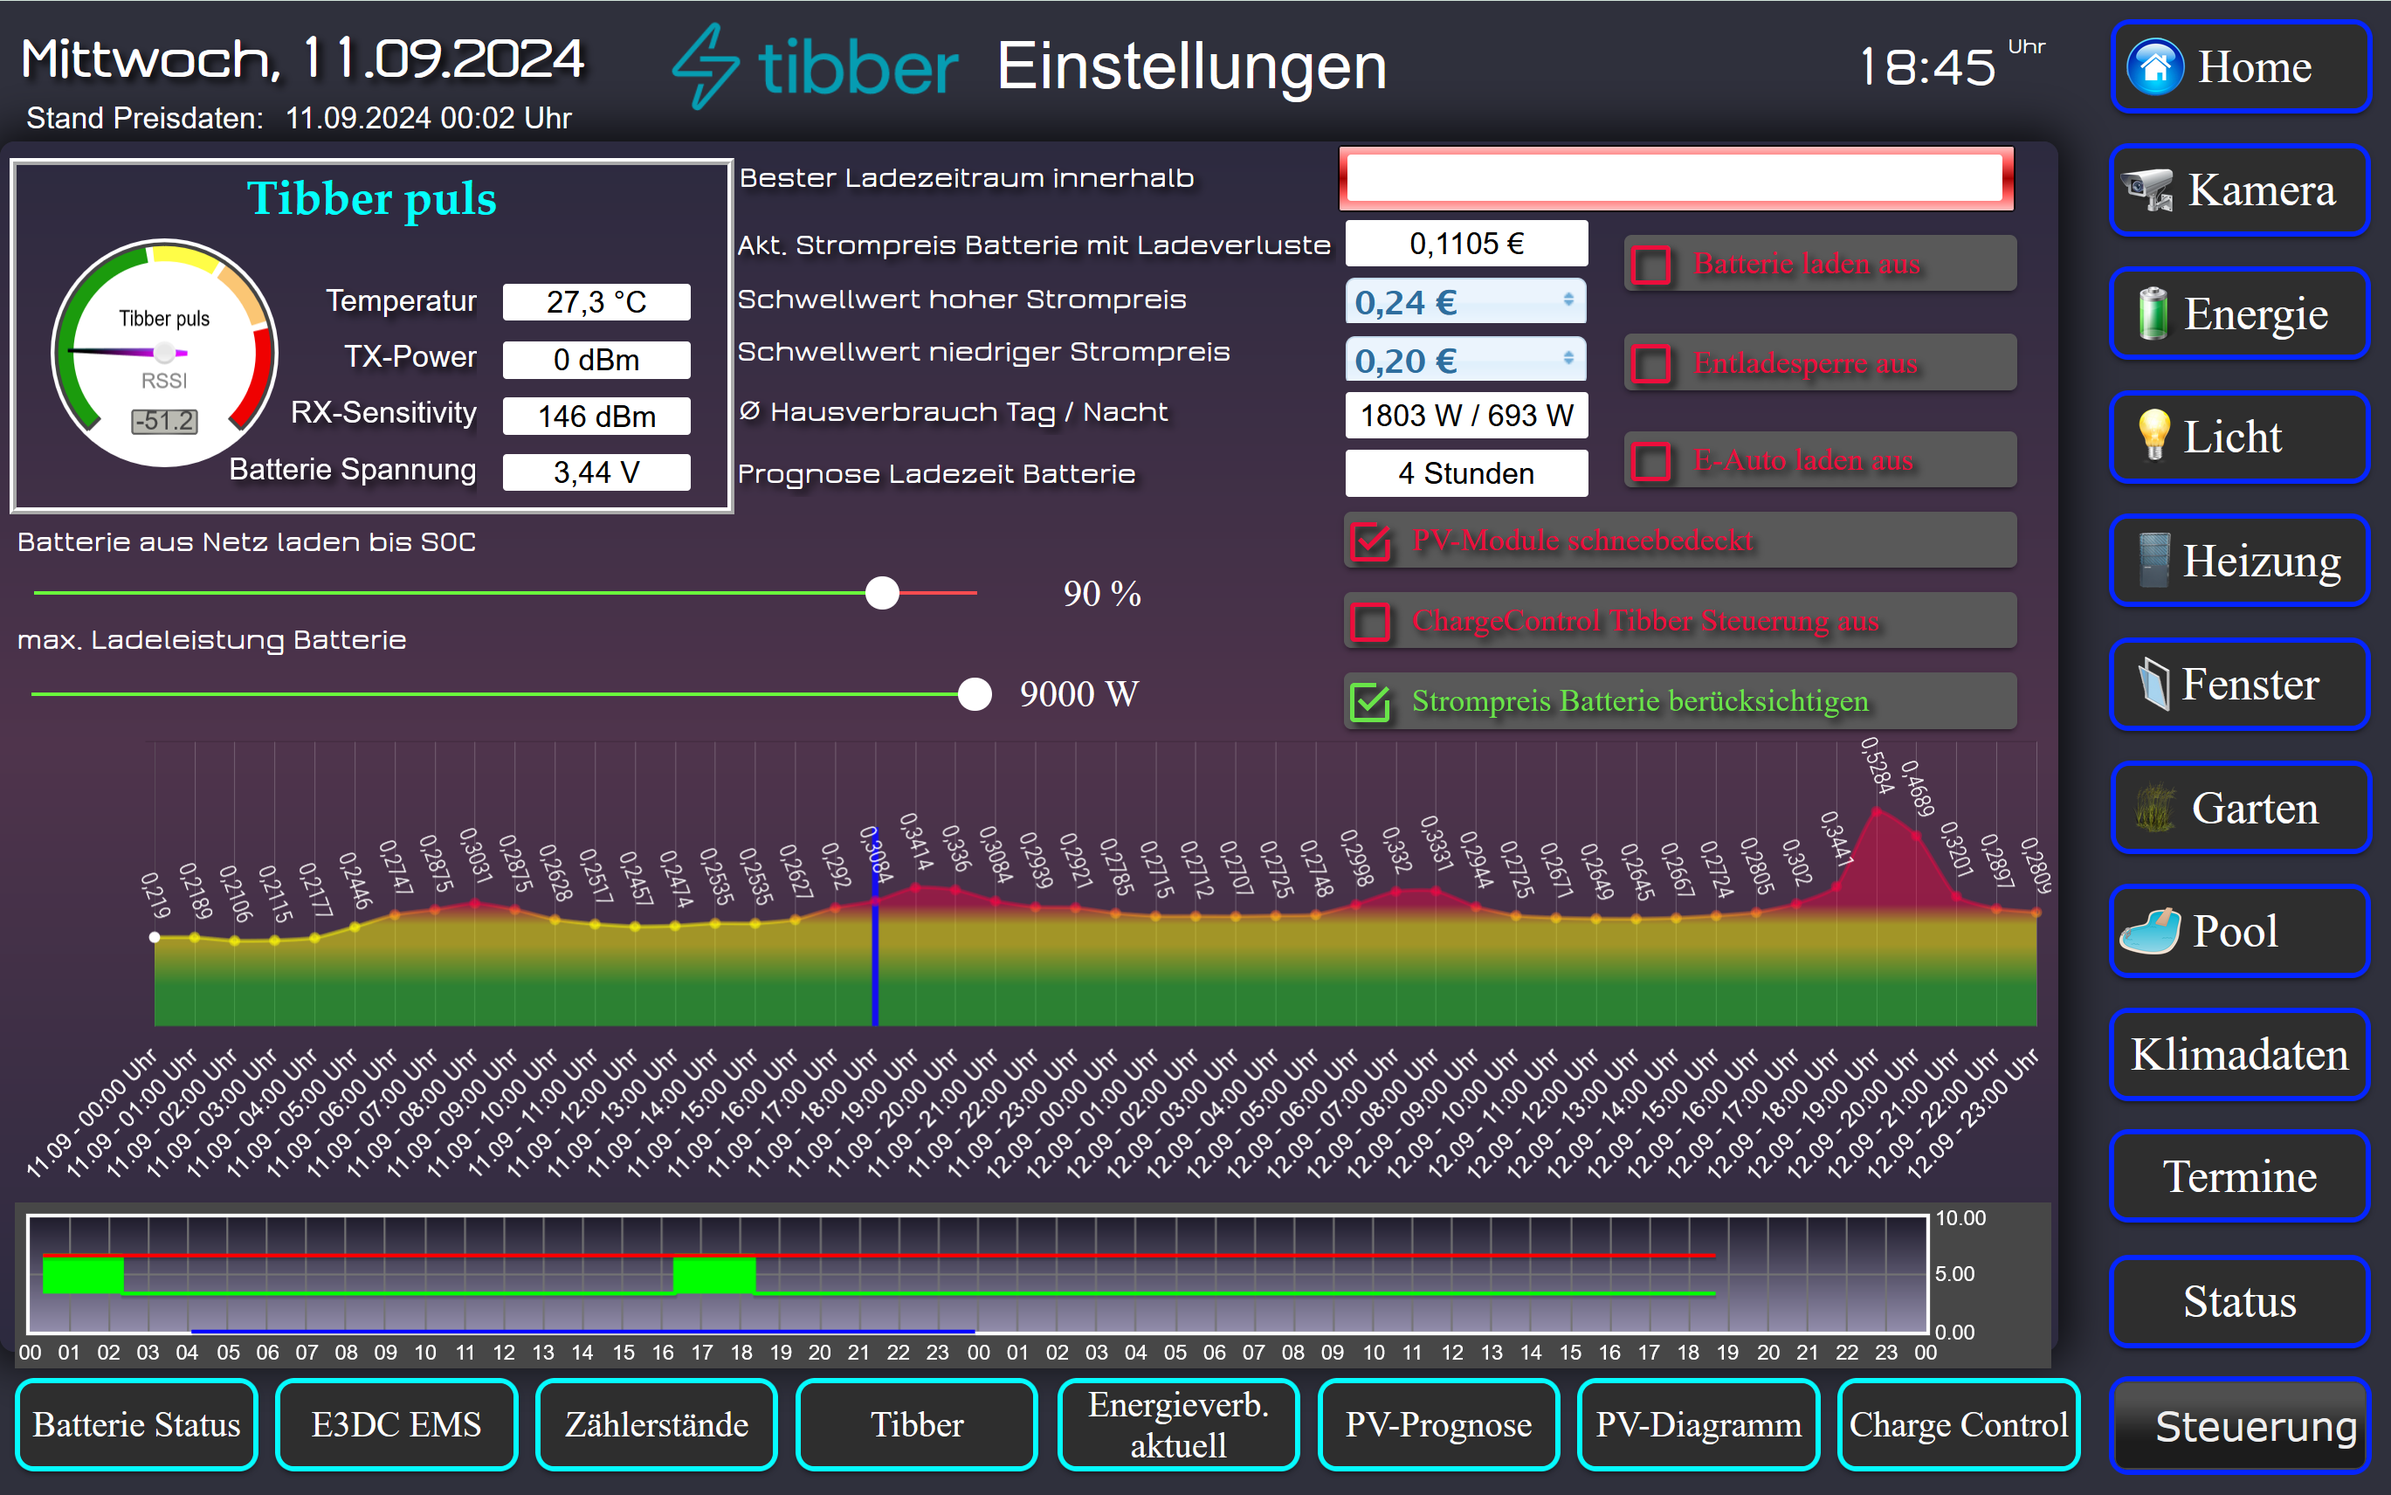
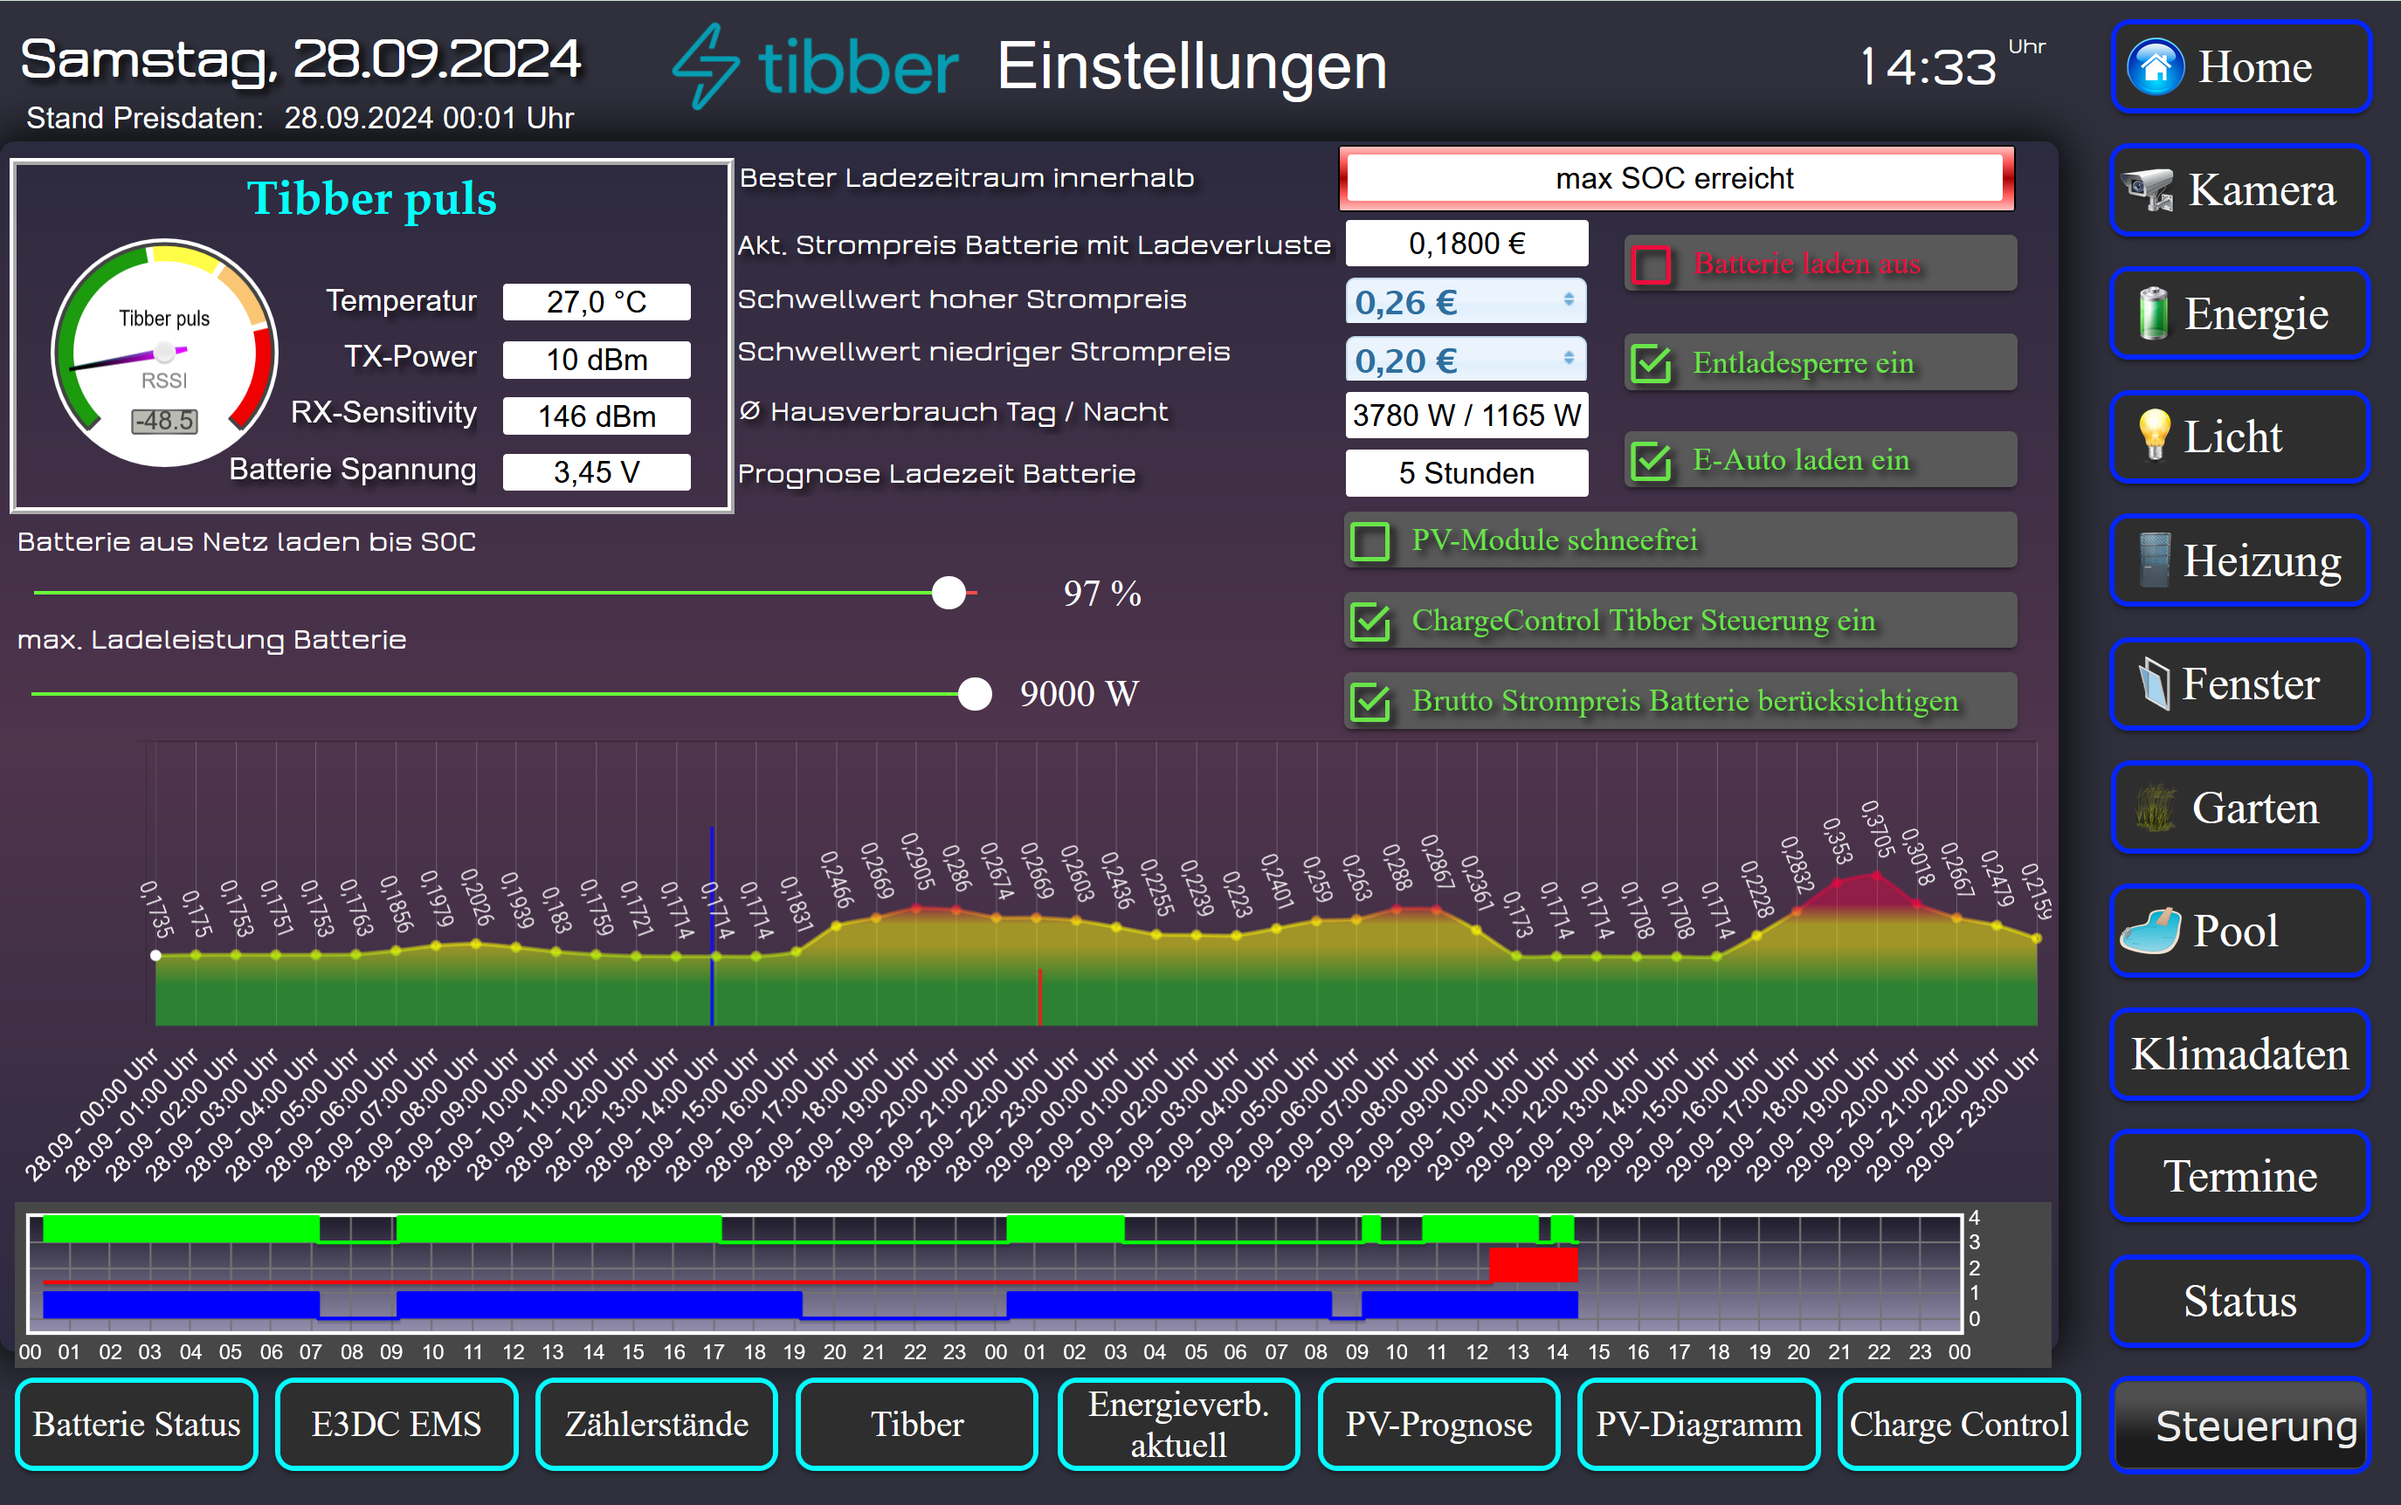
Update 28.09.2024

diff --git a/Tibber_Ver_1.1.5.js b/Tibber_Ver_1.1.5.js
@@ -14,7 +14,7 @@ const DebugAusgabeDetail = true;
 //******************************************************************************************************
 //**************************************** Deklaration Variablen ***************************************
 //******************************************************************************************************
-const scriptVersion = 'Version 1.1.4'
+const scriptVersion = 'Version 1.1.5'
 log(`-==== Tibber Skript ${scriptVersion} ====-`);
 
 // IDs Script Charge_Control
@@ -54,7 +54,7 @@ const sID_niedrigerSchwellwertStrompreis = `${instanz}.${PfadEbene1}.${PfadEbene
 
 const sID_Schneebedeckt = `${instanz}.${PfadEbene1}.${PfadEbene2[3]}.pvSchneebedeckt`;
 const sID_Systemwirkungsgrad = `${instanz}.${PfadEbene1}.${PfadEbene2[3]}.Systemwirkungsgrad`
-const sID_BatteriepreisAktiv = `${instanz}.${PfadEbene1}.${PfadEbene2[3]}.BatteriepreisAktiv`
+const sID_BatteriepreisAktiv = `${instanz}.${PfadEbene1}.${PfadEbene2[3]}.BatteriepreisAktiv`                   // Auswahl in VIS ob aktueller Strompreis Batterie brücksichtigt werden soll
 const sID_Stromgestehungskosten = `${instanz}.${PfadEbene1}.${PfadEbene2[3]}.stromgestehungskosten`
 const sID_TibberLinkID = `${instanz}.${PfadEbene1}.${PfadEbene2[3]}.tibberLinkId`
 
@@ -66,10 +66,10 @@ const arrayID_TibberPrices =[sID_PricesTodayJSON,sID_PricesTomorrowJSON];
 
 let maxBatterieSoC, aktuelleBatterieSoC_Pro, maxLadeleistungUser_W, stromgestehungskosten;
 let batterieKapazitaet_kWh, billigsterEinzelpreisBlock = 0, billigsterBlockPreis = 0, minStrompreis_48h = null, LogProgrammablauf = "";
-let batterieSOC_alt = null, aktuellerPreisTibber = null, strompreisBatterie,bruttoPreisBatterie,systemwirkungsgrad, batteriepreisAktiv ;
+let batterieSOC_alt = null, aktuellerPreisTibber = null, strompreisBatterie,bruttoPreisBatterie,systemwirkungsgrad ;
 let hoherSchwellwert, niedrigerSchwellwert;
 
-let bLock = false, bEntladenSperren = false, schneeBedeckt = false, notstromAktiv = false;                                                                 
+let bLock = false, bEntladenSperren = false, schneeBedeckt = false, notstromAktiv = false, batteriepreisAktiv = false;                                                                 
 
 let timerIds = [], timerTarget = [], timerObjektID = [],timerState =[], batterieLadedaten = [],datenHeute =[], datenMorgen = [], datenTibberLink48h = [];
 
@@ -181,7 +181,6 @@ async function tibberSteuerungHauskraftwerk() {
         const datejetzt = new Date();
         const [reichweite_h, minuten] = (await getStateAsync(sID_Autonomiezeit)).val.split(' / ')[1].split(' ')[0].split(':').map(Number);
         const endZeitBatterie = new Date(datejetzt.getTime() + reichweite_h * 3600000 + minuten * 60000);
-        log(`endZeitBatterie = ${endZeitBatterie}`,'warn')
         const pvLeistungAusreichend = await pruefePVLeistung(reichweite_h);
         const preisPhasen = await findePreisPhasen(datenTibberLink48h, hoherSchwellwert, niedrigerSchwellwert);
         let spitzenSchwellwert = 0, merkerNiedrigpreisphase = false
@@ -194,6 +193,9 @@ async function tibberSteuerungHauskraftwerk() {
         // Prüfen ob Freigabe zum laden vom E-Auto gesetzt werden kann
         await handleEAutoLaden(naechsteNiedrigphase,datejetzt);
         
+        // Prüfe ob Entladesperre der Batterie gesetzt werden muss
+        await pruefeBatterieEntladesperre(pvLeistungAusreichend,endZeitBatterie);
+
         // ist Prognose PV-Leistung ausreichend um Batterie zu laden oder maxBatterieSoC erreicht
         if (!pvLeistungAusreichend && aktuelleBatterieSoC_Pro < maxBatterieSoC) {
             
@@ -289,22 +291,24 @@ async function tibberSteuerungHauskraftwerk() {
             }
             
         } else {
-            
+            let message = '';
             LogProgrammablauf += '14,';
-            if (aktuelleBatterieSoC_Pro > maxBatterieSoC) {
-                await setStateAsync(sID_besteLadezeit, `max SOC erreicht`);
+            if (pvLeistungAusreichend) {
+                message = 'Laden mit PV-Leistung';
+                if (aktuelleBatterieSoC_Pro >= maxBatterieSoC) {
+                    message += ' und max SOC erreicht';
+                }
+            } else if (aktuelleBatterieSoC_Pro >= maxBatterieSoC) {
+                message = 'max SOC erreicht';
             } else {
-                await setStateAsync(sID_besteLadezeit, `Laden mit PV-Leistung`);
+                message = 'Laden mit PV-Leistung';
             }
-            // Entladesperre der Batterie ausschalten
-            await setStateAsync(sID_BatterieEntladesperre, false);
+            await setStateAsync(sID_besteLadezeit, message);
+            
         }
-
         await DebugLog(preisPhasen,naechsteNiedrigphase,naechsteHochphase,spitzenSchwellwert);
         LogProgrammablauf = '';
-
     } catch (error) {
-        // Fehlerbehandlung zentralisieren
         log(`Fehler in Funktion tibberSteuerungHauskraftwerk: ${error.message}`, 'error');
     }
 }
@@ -331,6 +335,33 @@ async function handleEAutoLaden(naechsteNiedrigphase,datejetzt) {
         }  
     }
 }
+
+// Funktionen Entladesperre prüfen
+async function pruefeBatterieEntladesperre(pvLeistungAusreichend,endZeitBatterie) {
+     LogProgrammablauf += '8,';
+    let pv_Leistung = false
+    let preisBatterie;
+    // Wenn Prognose PV-Leistung ausreicht um Batterie zu laden und die Batteriereichweite bis zum Sonnenaufgang reicht, dann auch bei niedrigem Tibber Preis entladen. 
+    if (pvLeistungAusreichend) {
+        // Holen der Sonnenaufgangs- und Sonnenuntergangszeiten
+        const sunriseEnd_ms = getAstroDate("sunriseEnd").getTime();  // Ende des Sonnenaufgangs
+        const sunset_ms = getAstroDate("sunset").getTime();          // Sonnenuntergang    
+        const endZeit_ms = new Date(endZeitBatterie).getTime();
+        // Prüfe, ob die Batteriezeit innerhalb der Sonnenzeiten liegt
+        if (endZeit_ms >= sunriseEnd_ms && endZeit_ms <= sunset_ms) {
+            pv_Leistung = true; // Entladung ist möglich, weil die Batteriezeit in der Sonnenzeit liegt
+        } 
+    }
+    // Prüfen ob der Bruttopreis oder der Nettopreis verwendet werden soll (Auswahl in VIS)
+    if(batteriepreisAktiv){preisBatterie = bruttoPreisBatterie }else{preisBatterie = strompreisBatterie}
+    if(preisBatterie > aktuellerPreisTibber && !pv_Leistung){
+        await setStateAsync(sID_BatterieEntladesperre, true)    
+    }else{
+        await setStateAsync(sID_BatterieEntladesperre, false)
+    }    
+}
+
+
 
 // Funktion sucht entweder die aktuelle Phase oder die nächste Phase mit Start- und Endzeit.
 function findeAktuelleOderNaechstePhase(arrayPhases) {

diff --git a/View Import Dateien VIS/iobroker_VIS_View_Tibber.js b/View Import Dateien VIS/iobroker_VIS_View_Tibber.js
@@ -2748,7 +2748,7 @@
                 "lc-border-color": "",
                 "lc-border-radius": 10,
                 "lc-zindex": 0,
-                "src": "https://192.168.1.60:8082/flot/index.html?l%5B0%5D%5Bid%5D=0_userdata.0.TibberSkript.OutputSignal.BatterieLaden&l%5B0%5D%5Boffset%5D=0&l%5B0%5D%5Baggregate%5D=minmax&l%5B0%5D%5Bcolor%5D=%2300FF00&l%5B0%5D%5Bmin%5D=-1&l%5B0%5D%5Bmax%5D=2&l%5B0%5D%5Bthickness%5D=2&l%5B0%5D%5Bshadowsize%5D=2&l%5B0%5D%5Bname%5D=Ladefreigabe&l%5B0%5D%5BchartType%5D=steps&l%5B0%5D%5Byaxe%5D=off&l%5B0%5D%5Bxaxe%5D=off&l%5B0%5D%5BignoreNull%5D=false&l%5B0%5D%5BafterComma%5D=0&l%5B0%5D%5Bdashes%5D=false&l%5B0%5D%5BdashLength%5D=10&l%5B0%5D%5BspaceLength%5D=10&l%5B0%5D%5Bxticks%5D=50&l%5B0%5D%5Byticks%5D=3&l%5B0%5D%5Bmultiplicator%5D=1&l%5B0%5D%5Bxmove%5D=0&l%5B0%5D%5Bfill%5D=1&l%5B1%5D%5Bid%5D=0_userdata.0.TibberSkript.OutputSignal.BatterieEntladesperre&l%5B1%5D%5Boffset%5D=0&l%5B1%5D%5Baggregate%5D=minmax&l%5B1%5D%5Bcolor%5D=%23ff0000&l%5B1%5D%5Bmin%5D=-2&l%5B1%5D%5Bmax%5D=1&l%5B1%5D%5Bthickness%5D=2&l%5B1%5D%5Bshadowsize%5D=2&l%5B1%5D%5Bname%5D=Entladesperre&l%5B1%5D%5Bxmove%5D=0&l%5B1%5D%5BchartType%5D=steps&l%5B1%5D%5Bfill%5D=1&l%5B1%5D%5Byaxe%5D=off&l%5B1%5D%5Bxaxe%5D=off&l%5B1%5D%5BignoreNull%5D=false&l%5B1%5D%5BafterComma%5D=0&l%5B1%5D%5Bdashes%5D=false&l%5B1%5D%5BdashLength%5D=10&l%5B1%5D%5BspaceLength%5D=10&l%5B1%5D%5Bmultiplicator%5D=1&l%5B1%5D%5Bxticks%5D=50&l%5B1%5D%5Byticks%5D=3&l%5B1%5D%5Bpoints%5D=false&l%5B2%5D%5Bid%5D=0_userdata.0.TibberSkript.OutputSignal.eAutoLaden&l%5B2%5D%5Boffset%5D=0&l%5B2%5D%5Baggregate%5D=onchange&l%5B2%5D%5Bcolor%5D=%230000FF&l%5B2%5D%5Bmin%5D=0&l%5B2%5D%5Bmax%5D=10&l%5B2%5D%5Bthickness%5D=2&l%5B2%5D%5Bshadowsize%5D=2&l%5B2%5D%5Bname%5D=E-Auto&l%5B2%5D%5Bxmove%5D=0&l%5B2%5D%5BchartType%5D=steps&l%5B2%5D%5Byaxe%5D=right&l%5B2%5D%5Bxaxe%5D=bottom&l%5B2%5D%5Bfill%5D=1&l%5B2%5D%5BignoreNull%5D=false&l%5B2%5D%5BafterComma%5D=2&l%5B2%5D%5Bdashes%5D=false&l%5B2%5D%5BdashLength%5D=10&l%5B2%5D%5BspaceLength%5D=10&l%5B2%5D%5Bmultiplicator%5D=1&l%5B2%5D%5Bxticks%5D=50&l%5B2%5D%5Byticks%5D=3&timeType=relative&relativeEnd=today&range=2880&aggregateType=count&aggregateSpan=120&hoverDetail=false&useComma=false&zoom=true&noedit=true&animation=0&noBorder=noborder&live=1800&legColumns=2&legBgOpacity=1&barColor=%230000ff&x_labels_color=%23ffffff&y_labels_color=%23ffffff&border_color=%23ffffff&window_bg=%23474747&bg=6&grid_color=%23737373&titleSize=20&timeFormat=%25H"
+                "src": "https://192.168.1.60:8082/flot/index.html?l%5B0%5D%5Bid%5D=0_userdata.0.TibberSkript.OutputSignal.BatterieLaden&l%5B0%5D%5Boffset%5D=0&l%5B0%5D%5Baggregate%5D=minmax&l%5B0%5D%5Bcolor%5D=%2300FF00&l%5B0%5D%5Bmin%5D=-3.5&l%5B0%5D%5Bmax%5D=1&l%5B0%5D%5Bthickness%5D=2&l%5B0%5D%5Bshadowsize%5D=2&l%5B0%5D%5Bname%5D=Ladefreigabe&l%5B0%5D%5BchartType%5D=steps&l%5B0%5D%5Byaxe%5D=off&l%5B0%5D%5Bxaxe%5D=off&l%5B0%5D%5BignoreNull%5D=false&l%5B0%5D%5BafterComma%5D=0&l%5B0%5D%5Bdashes%5D=false&l%5B0%5D%5BdashLength%5D=10&l%5B0%5D%5BspaceLength%5D=10&l%5B0%5D%5Bxticks%5D=50&l%5B0%5D%5Byticks%5D=4&l%5B0%5D%5Bmultiplicator%5D=1&l%5B0%5D%5Bxmove%5D=0&l%5B0%5D%5Bfill%5D=1&l%5B1%5D%5Bid%5D=0_userdata.0.TibberSkript.OutputSignal.BatterieEntladesperre&l%5B1%5D%5Boffset%5D=0&l%5B1%5D%5Baggregate%5D=minmax&l%5B1%5D%5Bcolor%5D=%23ff0000&l%5B1%5D%5Bmin%5D=-1.5&l%5B1%5D%5Bmax%5D=2&l%5B1%5D%5Bthickness%5D=2&l%5B1%5D%5Bshadowsize%5D=2&l%5B1%5D%5Bname%5D=Entladesperre&l%5B1%5D%5Bxmove%5D=0&l%5B1%5D%5BchartType%5D=steps&l%5B1%5D%5Bfill%5D=1&l%5B1%5D%5Byaxe%5D=off&l%5B1%5D%5Bxaxe%5D=off&l%5B1%5D%5BignoreNull%5D=false&l%5B1%5D%5BafterComma%5D=0&l%5B1%5D%5Bdashes%5D=false&l%5B1%5D%5BdashLength%5D=10&l%5B1%5D%5BspaceLength%5D=10&l%5B1%5D%5Bmultiplicator%5D=1&l%5B1%5D%5Bxticks%5D=50&l%5B1%5D%5Byticks%5D=4&l%5B1%5D%5Bpoints%5D=false&l%5B2%5D%5Bid%5D=0_userdata.0.TibberSkript.OutputSignal.eAutoLaden&l%5B2%5D%5Boffset%5D=0&l%5B2%5D%5Baggregate%5D=minmax&l%5B2%5D%5Bcolor%5D=%230000FF&l%5B2%5D%5Bmin%5D=-0.5&l%5B2%5D%5Bmax%5D=4&l%5B2%5D%5Bthickness%5D=2&l%5B2%5D%5Bshadowsize%5D=2&l%5B2%5D%5Bname%5D=E-Auto&l%5B2%5D%5Bxmove%5D=0&l%5B2%5D%5BchartType%5D=steps&l%5B2%5D%5Byaxe%5D=right&l%5B2%5D%5Bxaxe%5D=bottom&l%5B2%5D%5Bfill%5D=1&l%5B2%5D%5BignoreNull%5D=false&l%5B2%5D%5BafterComma%5D=0&l%5B2%5D%5Bdashes%5D=false&l%5B2%5D%5BdashLength%5D=10&l%5B2%5D%5BspaceLength%5D=10&l%5B2%5D%5Bmultiplicator%5D=1&l%5B2%5D%5Bxticks%5D=50&l%5B2%5D%5Byticks%5D=4&timeType=relative&relativeEnd=today&range=2880&aggregateType=count&aggregateSpan=120&hoverDetail=false&useComma=false&zoom=true&noedit=true&animation=0&noBorder=noborder&live=1800&legColumns=2&legBgOpacity=1&barColor=%230000ff&x_labels_color=%23ffffff&y_labels_color=%23ffffff&border_color=%23ffffff&window_bg=%23474747&bg=6&grid_color=%23737373&titleSize=20&timeFormat=%25H"
             },
             "style": {
                 "left": "8px",
@@ -2935,7 +2935,7 @@
                 "toggleType": "boolean",
                 "stateIfNotTrueValue": "on",
                 "vibrateOnMobilDevices": "50",
-                "buttontext": "&nbsp;&nbsp;Strompreis Batterie ignorieren",
+                "buttontext": "&nbsp;&nbsp;Netto Strompreis Batterie berücksichtigen",
                 "textFontFamily": "#mdwTheme:vis-materialdesign.0.fonts.button.default.text",
                 "textFontSize": "17",
                 "mdwButtonPrimaryColor": "#595959",
@@ -2990,7 +2990,7 @@
                 "labelColorTrue": "#69e449",
                 "labelColorFalse": "#ec0e3c",
                 "iconHeight": "28",
-                "labelTrue": "&nbsp;&nbsp;Strompreis Batterie berücksichtigen",
+                "labelTrue": "&nbsp;&nbsp;Brutto Strompreis Batterie berücksichtigen",
                 "labelWidth": "100",
                 "colorBgFalse": "",
                 "colorBgTrue": "",
